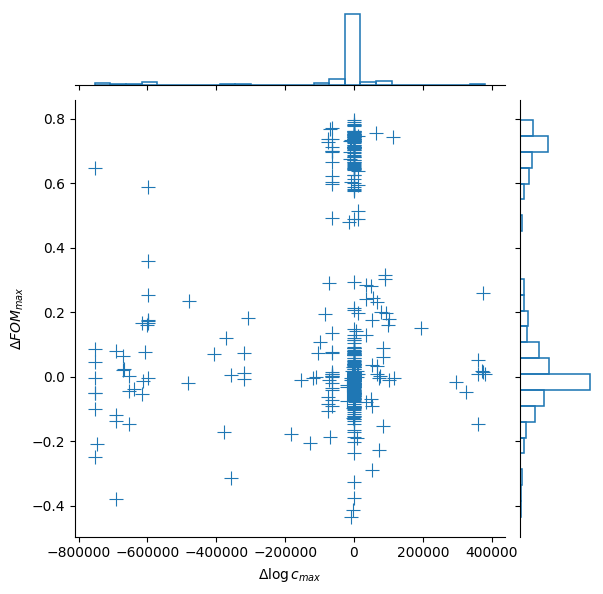
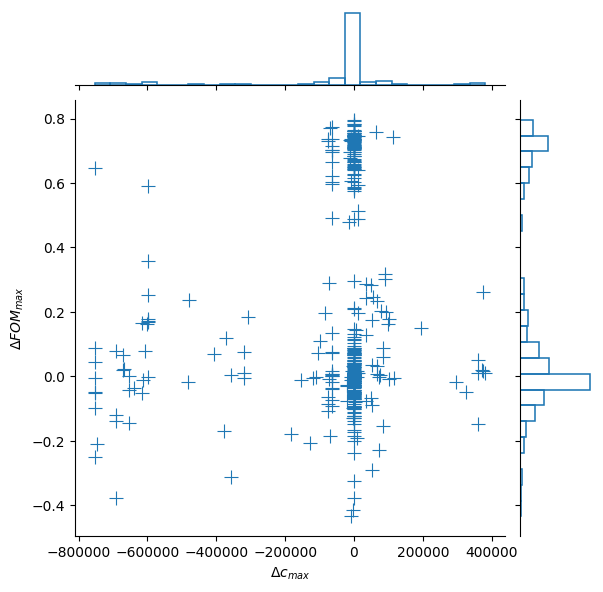
- update x labels

diff --git a/workplace/Counterfactual/dconc/dconc.py b/workplace/Counterfactual/dconc/dconc.py
@@ -75,7 +75,8 @@ def main_plot(delta_conc: list[float], delta_fom: list[float]):
         data, x="dconc", y="dfom",
         marker="+", s=100, marginal_kws=dict(bins=25, fill=False),
     )
-    fig.ax_joint.set_xlabel("$\Delta \log c_{max}$")
+    fig.ax_marg_x.ticklabel_format(style='scientific', axis='x')
+    fig.ax_joint.set_xlabel("$\Delta c_{max}$")
     fig.ax_joint.set_ylabel("$\Delta FOM_{max}$")
     return fig
 
